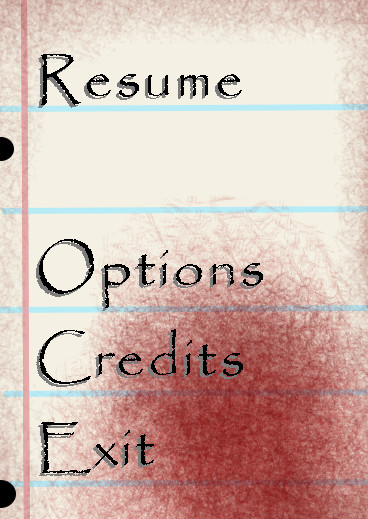
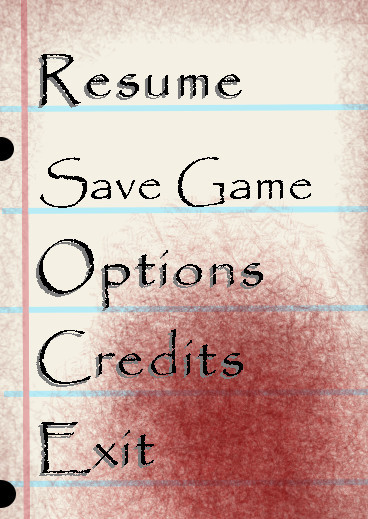
starting save/load

diff --git a/src/horrortactics/SaveMyFile.java b/src/horrortactics/SaveMyFile.java
@@ -1,0 +1,41 @@
+/*
+ * To change this license header, choose License Headers in Project Properties.
+ * To change this template file, choose Tools | Templates
+ * and open the template in the editor.
+ */
+package horrortactics;
+
+import java.io.*;
+import java.util.Scanner;
+
+/**
+ *
+ * @author tcooper
+ */
+public class SaveMyFile {
+    String Slot = "1";
+    public SaveMyFile() {
+    }
+    public void saveData(HorrorTactics ht, String slot) {
+        try {
+            FileWriter fstream = new FileWriter("Save" + slot + ".txt");
+            BufferedWriter out = new BufferedWriter(fstream);
+            out.write("Hello Java");
+            out.close();
+        } catch (Exception e) {//Catch exception if any
+            System.err.println("Error: " + e.getMessage());
+        }
+    }
+    public void readFile(String fileName) {
+       try {
+         File file = new File(fileName);
+         Scanner scanner = new Scanner(file);
+         while (scanner.hasNextLine()) {
+           System.out.println(scanner.nextLine());
+         }
+         scanner.close();
+       } catch (FileNotFoundException e) {
+         e.printStackTrace();
+       }
+     }
+}
